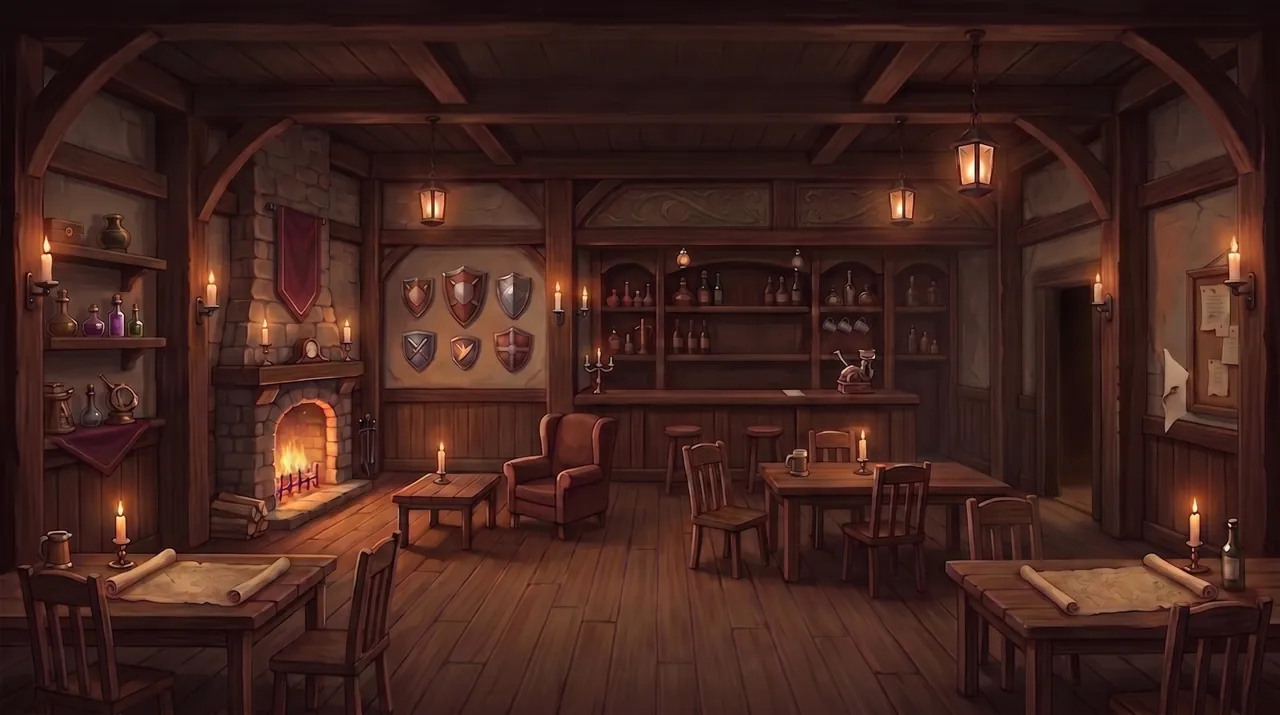
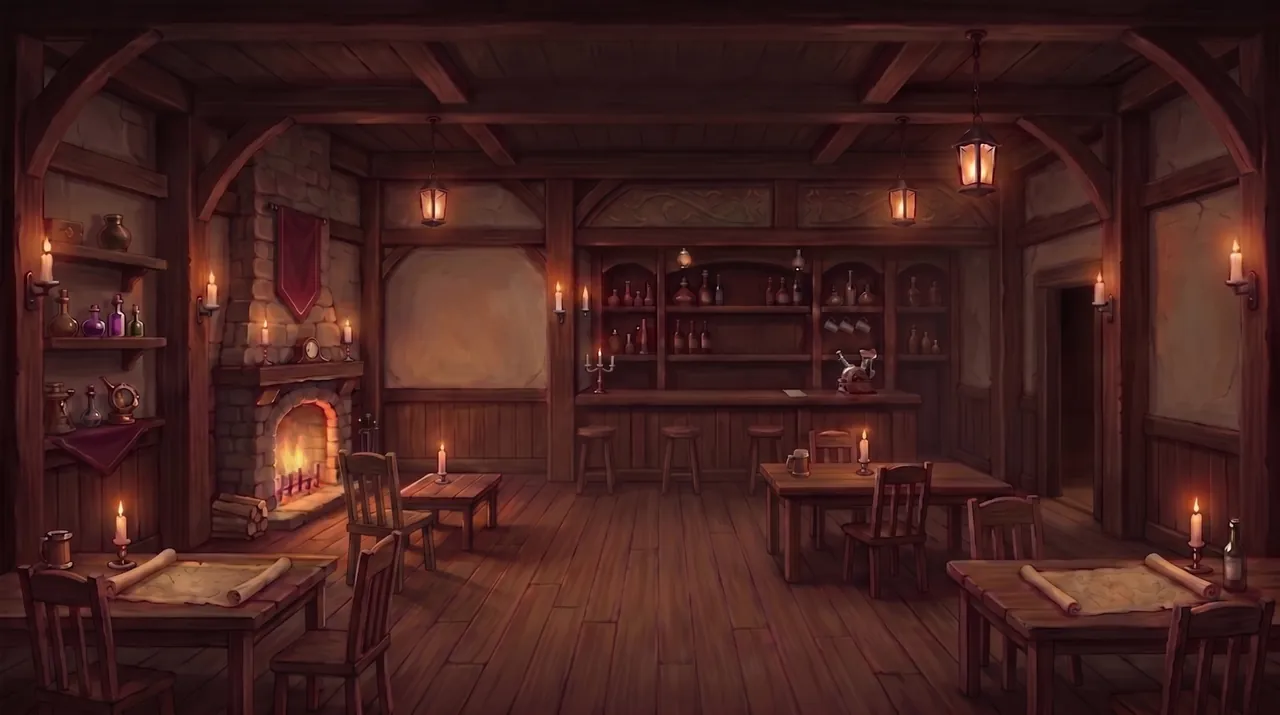
feat(art): harden optimise-art pipeline and ship 16 tavern sprites
Add width-list and output-directory arguments to optimise-art.mjs, reject invalid widths before writing, read back every written file with sharp and delete any file whose real width disagrees with its name, and clean up every file an invocation wrote when it fails.

Ship the repainted tavern room (1280x715, 2560x1431) and sixteen new sprites: six shields, the quest board prop and the seated tavern regular, each at two widths.

Lock art/README.md to the 42 files now in public/art with measured dimensions and byte counts.

Closes DEF-18, DEF-19, DEF-20, BL-7.

diff --git a/art/README.md b/art/README.md
@@ -64,7 +64,35 @@ The `public/art/` directory contains exactly the following 26 files. These are t
 | tavern-entrance-open-2560.webp | 2560x1429 | 70622 | background |
 | tavern-regular-neutral-470.webp | 470x703 | 46712 | sprite |
 | tavern-regular-neutral-940.webp | 940x1406 | 82016 | sprite |
-| tavern-room-1280.webp | 1280x715 | 57898 | background |
-| tavern-room-2560.webp | 2560x1430 | 130582 | background |
+| tavern-room-1280.webp | 1280×715  |  48,956 B |background |
+| tavern-room-2560.webp | 2560×1431 | 107,660 B |background |
 | tavern-sign-1694.webp | 1694x1267 | 77312 | sprite |
 | tavern-sign-847.webp | 847x634 | 48372 | sprite |
+| shield-languages-256.webp      | 256×325  | 14,394 B |
+| shield-languages-128.webp      | 128×163  |  5,552 B |
+| shield-frameworks-256.webp     | 256×354  | 16,962 B |
+| shield-frameworks-128.webp     | 128×177  |  6,200 B |
+| shield-tools-256.webp          | 256×370  | 13,018 B |
+| shield-tools-128.webp          | 128×185  |  5,792 B |
+| shield-data-256.webp           | 256×321  | 12,580 B |
+| shield-data-128.webp           | 128×161  |  5,236 B |
+| shield-other-256.webp          | 256×319  | 13,970 B |
+| shield-other-128.webp          | 128×159  |  5,446 B |
+| shield-coming-soon-256.webp    | 256×316  | 12,234 B |
+| shield-coming-soon-128.webp    | 128×158  |  5,076 B |
+| quest-board-prop-512.webp      | 512×885  | 37,472 B |
+| quest-board-prop-256.webp      | 256×443  | 16,730 B |
+| tavern-regular-seated-528.webp | 528×741  | 28,992 B |
+| tavern-regular-seated-264.webp | 264×371  | 21,050 B |
+
+The width in a filename is a measurement, not an intention. npm run art
+re-reads every file it writes and refuses, deletes and exits non-zero if
+the real width disagrees with the name, so no file in this directory can
+carry a width it does not have.
+
+tavern-regular-neutral-940.webp and -470.webp are retained deliberately,
+even though tavern-regular-seated-* supersedes them, so the swap stays
+auditable.
+
+The room pair is verified by modification time, never by dimensions,
+because a repaint at the same size is invisible to every other check.
